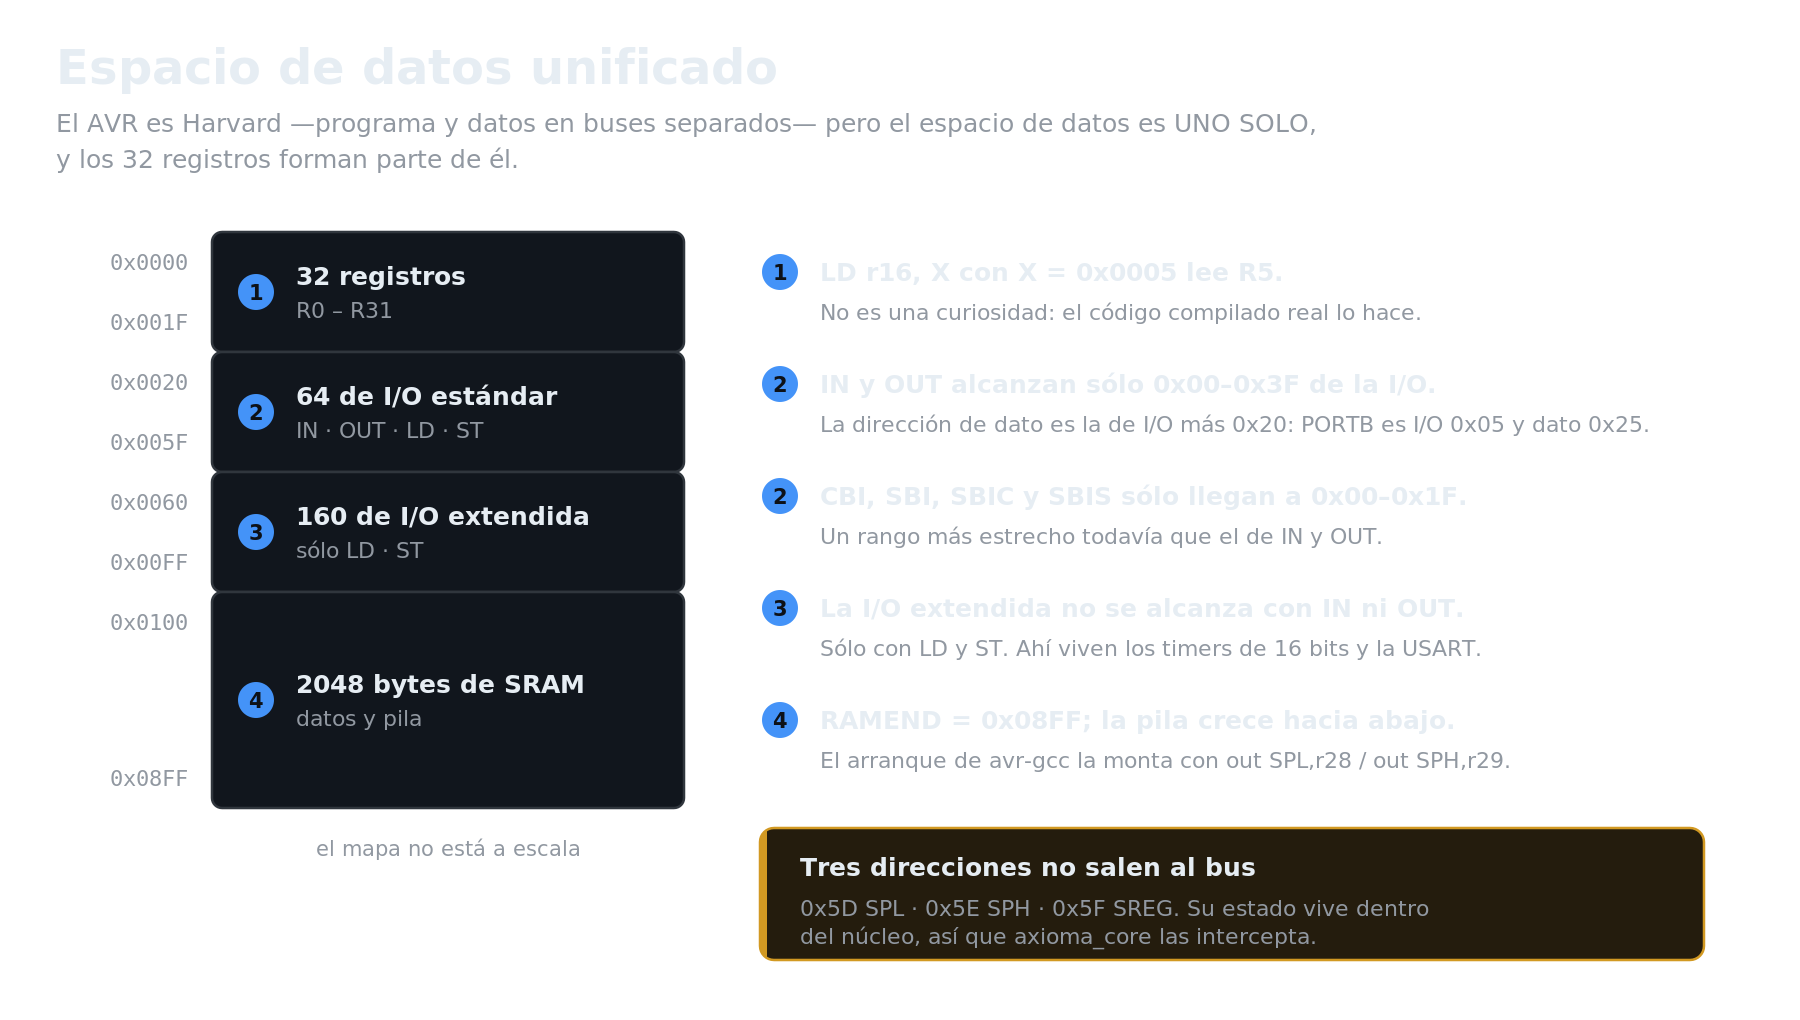
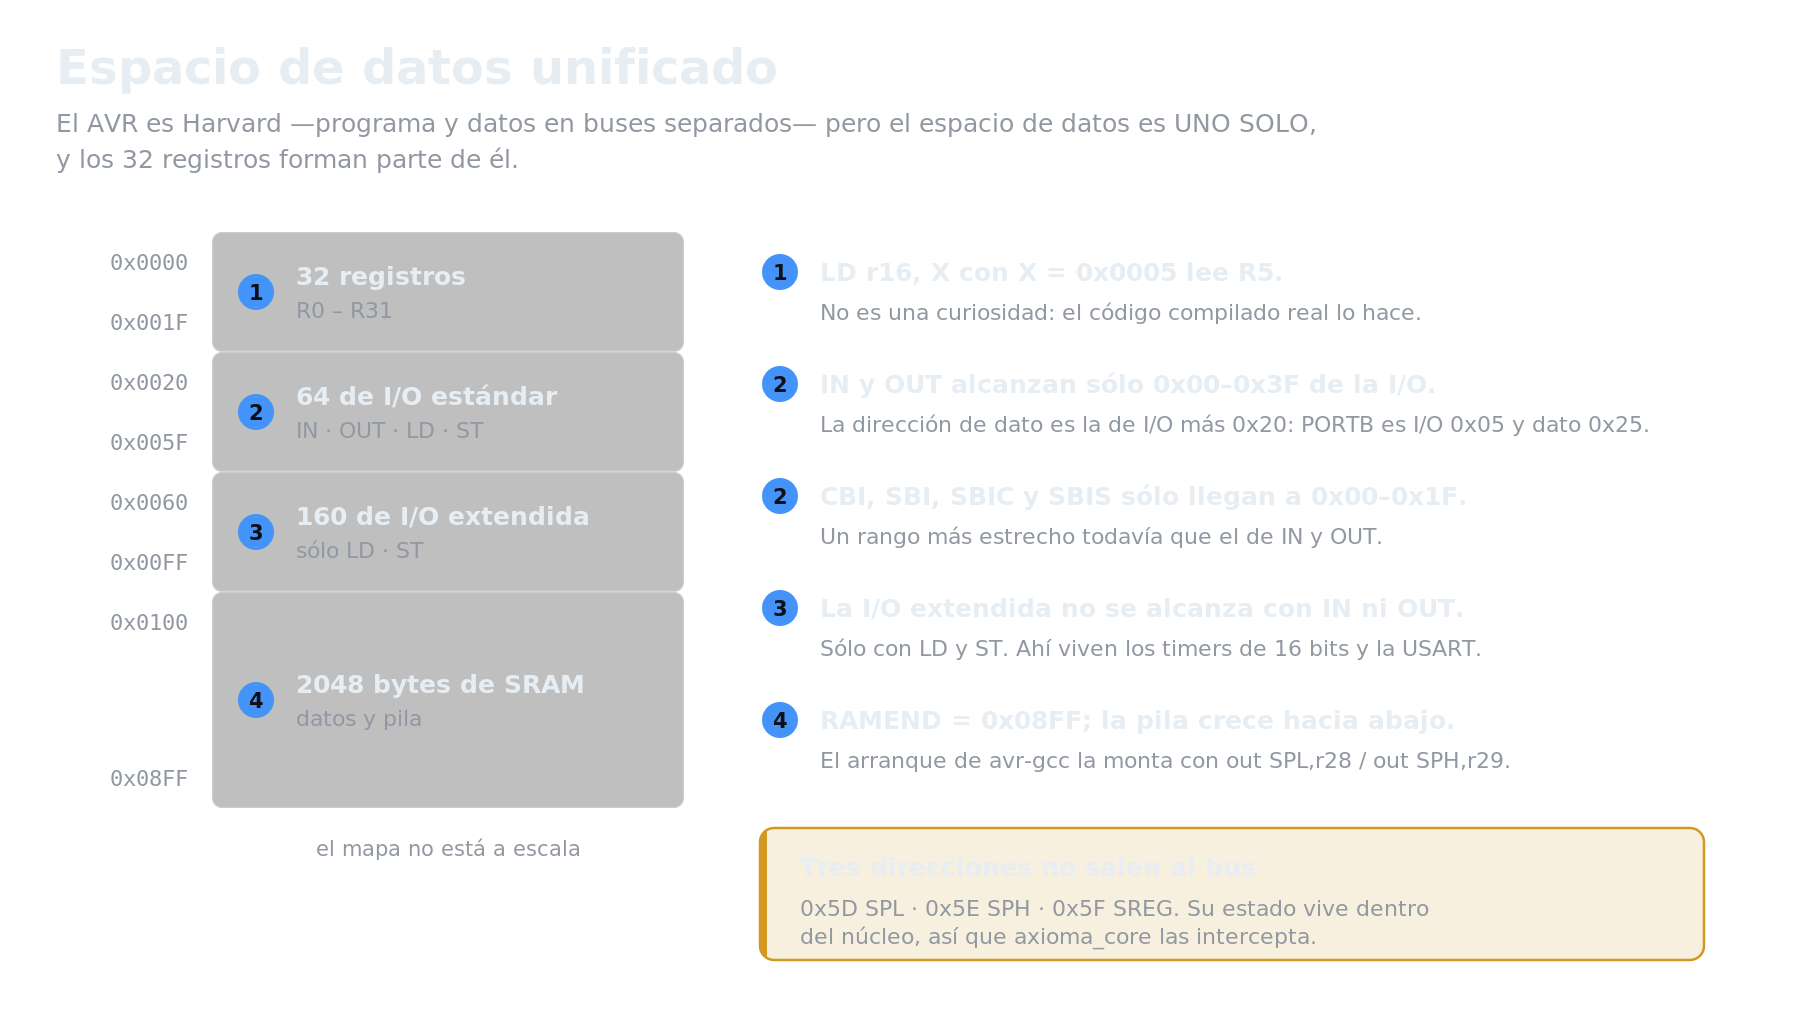
docs: que la transparencia de las figuras sea de toda la figura, no del margen
El commit anterior dejo transparente el lienzo, pero la placa y todas las
tarjetas de dentro seguian siendo rellenos OPACOS. El resultado era a
medias: la figura no llevaba rectangulo por fuera, pero por dentro seguia
tapando la pagina con los colores planos de GitHub, asi que sobre cualquier
fondo que no fuera exactamente ese se veian como parches.

Ahora TODOS los rellenos son lavados translucidos y se componen sobre lo
que haya debajo: la placa oscurece un punto, el panel aclara, el tinte de
estado apenas tine. La jerarquia visual se conserva —placa, panel, bloque—
porque lo que la crea es la diferencia entre capas, no el color absoluto de
cada una. El borde tambien es translucido: uno opaco se veia como una linea
ajena en cuanto la pagina no era del color previsto.

Lo que sigue OPACO es lo que hay que leer: tintas, trazos, flechas y la
barra de estado de cada bloque.

En la paleta ya no hay un color `bg`. Era dos cosas distintas con el mismo
nombre, y por eso el arreglo anterior salio a medias:

  panel      el lavado de los bloques que deben parecer recortados sobre la
             placa. Translucido.
  chip_ink   la tinta del texto que va ENCIMA de una etiqueta de color —la
             pildora ORACULO, los circulos numerados—. Opaca, porque tiene
             que contrastar con un relleno saturado, no con la pagina.

Los alfas se multiplican al apilarse —tinte sobre panel sobre placa sobre
pagina— y estan elegidos para que la suma de aproximadamente los colores
[…]

Changed region(s): [[0.0933, 0.2127, 0.4044, 0.8206], [0.4044, 0.7902, 0.9644, 0.9422]]

diff --git a/tools/diagram_kit.py b/tools/diagram_kit.py
@@ -24,18 +24,38 @@ MONO = "DejaVu Sans Mono"
 # oscuro, para que los diagramas no se vean como un parche encendido.
 # --------------------------------------------------------------------------
 LIGHT = dict(
-    bg="#ffffff", plate="#f6f8fa", block="#ffffff", ink="#1f2328",
-    muted="#59636e", line="#d1d9e0", strong="#8c959f",
+    # RELLENOS TRANSLÚCIDOS, no colores planos. Cada capa es un LAVADO sobre lo
+    # que haya debajo —la página—, no un rectángulo que la tape: la placa
+    # oscurece un punto, el panel aclara, y el tinte de estado apenas tiñe. Así
+    # la figura conserva su jerarquía visual sobre cualquier color de página, y
+    # no sólo sobre el blanco exacto que suponía la paleta.
+    #
+    # El orden importa y los alfas se multiplican: tinte de estado sobre panel
+    # sobre placa sobre página. Los valores están elegidos para que la suma dé
+    # aproximadamente los colores planos de GitHub en tema claro, que es donde
+    # se ve el README la mayoría de las veces.
+    plate="#1f23280a", panel="#ffffffb3", block="#ffffffb3",
+    ok_bg="#1a7f371a", partial_bg="#9a67001a", todo_bg="#1f232811",
+    # El borde también es translúcido: uno opaco se vería como una línea ajena
+    # en cuanto la página no fuera del color previsto.
+    line="#1f23282e",
+    # Tintas y trazos: OPACOS. Son lo que hay que leer.
+    ink="#1f2328", muted="#59636e", strong="#8c959f",
     ok="#1a7f37", partial="#9a6700", todo="#818b98",
-    ok_bg="#eaf6ec", partial_bg="#fdf5e3", todo_bg="#f2f4f7",
-    accent="#0969da", shadow="#00000010",
+    accent="#0969da",
+    # Color del texto que va ENCIMA de una etiqueta de color —la píldora
+    # «ORÁCULO», los círculos numerados—. No es el fondo del lienzo: es la tinta
+    # que contrasta con un relleno saturado, y por eso es opaca.
+    chip_ink="#ffffff",
 )
 DARK = dict(
-    bg="#0d1117", plate="#161b22", block="#11161d", ink="#e6edf3",
-    muted="#9198a1", line="#30363d", strong="#6e7681",
+    plate="#ffffff0d", panel="#00000040", block="#00000040",
+    ok_bg="#3fb95024", partial_bg="#d2992224", todo_bg="#ffffff0f",
+    line="#ffffff30",
+    ink="#e6edf3", muted="#9198a1", strong="#6e7681",
     ok="#3fb950", partial="#d29922", todo="#6e7681",
-    ok_bg="#12251a", partial_bg="#241c0d", todo_bg="#1b2129",
-    accent="#4493f8", shadow="#00000000",
+    accent="#4493f8",
+    chip_ink="#0d1117",
 )
 
 
@@ -60,11 +80,13 @@ class Canvas:
     # elementos del diseño —el contraste entre la placa gris y los bloques
     # blancos es lo que agrupa visualmente el diagrama—, no relleno de fondo.
     #
-    # `theme["bg"]` se conserva porque se usa para OTRAS cosas: el relleno de
-    # los bloques que tienen que parecer recortados sobre la placa, y el color
-    # del texto sobre una etiqueta de color. No es el fondo del lienzo.
+    # NO HAY color de fondo en la paleta, y es a propósito: el fondo es la
+    # página. Lo que antes lo hacía —`bg`— se ha partido en dos cosas que no
+    # eran la misma: `panel`, un lavado translúcido para los bloques que deben
+    # parecer recortados sobre la placa, y `chip_ink`, la tinta opaca del texto
+    # que va encima de una etiqueta de color.
     #
-    # Quien quiera el rectángulo opaco de vuelta, que pase `fondo=t["bg"]`.
+    # Quien quiera el rectángulo opaco de vuelta, que pase un color en `fondo`.
     def __init__(self, w, h, theme, fondo=None):
         self.w, self.h, self.t = w, h, theme
         self.surface = cairo.ImageSurface(cairo.FORMAT_ARGB32,

diff --git a/tools/gen_diagrams.py b/tools/gen_diagrams.py
@@ -115,7 +115,7 @@ def fig_soc(t):
 
     # ---- núcleo ----
     CY, CH = 122, 170
-    c.box(IN_L, CY, IN_W, CH, t["bg"], t["line"], r=8)
+    c.box(IN_L, CY, IN_W, CH, t["panel"], t["line"], r=8)
     c.text(IN_L + 14, CY + 21, "axioma_core", 11.5, colour=t["muted"], mono=True)
 
     ix, iw = IN_L + 16, IN_W - 32                    # 64 .. 836
@@ -160,7 +160,7 @@ def fig_soc(t):
 
     # ---- lo que cuelga del bus ----
     GY, GH = 510, 276
-    c.box(IN_L, GY, IN_W, GH, t["bg"], t["line"], r=8)
+    c.box(IN_L, GY, IN_W, GH, t["panel"], t["line"], r=8)
     c.text(IN_L + 14, GY + 21, "en el espacio de datos", 11.5, colour=t["muted"],
            mono=True)
     c.path([(450, BY + BH + 4), (450, GY - 5)], colour=t["strong"])
@@ -182,7 +182,7 @@ def fig_soc(t):
 
     # ---- pines ----
     py, ph = 802, 36
-    c.box(IN_L, py, IN_W, ph, t["bg"], t["line"], r=7, dash=[5, 3])
+    c.box(IN_L, py, IN_W, ph, t["panel"], t["line"], r=7, dash=[5, 3])
     c.text(IN_L + 20, py + ph / 2, "pines", 11, colour=t["muted"], mono=True,
            align="leftm")
     c.text(IN_L + IN_W / 2 + 26, py + ph / 2,
@@ -203,7 +203,7 @@ def pill(c, x, y, txt, colour=None, size=9):
     col = colour or c.t["accent"]
     w = c.measure(txt, size, bold=True) + 14
     c.box(x, y - 8, w, 16, col, None, r=8)
-    c.text(x + w / 2, y, txt, size, colour=c.t["bg"], bold=True, align="centerm")
+    c.text(x + w / 2, y, txt, size, colour=c.t["chip_ink"], bold=True, align="centerm")
     return w
 
 
@@ -285,7 +285,7 @@ def badge(c, cx, cy, txt, r=9):
     c.set(c.t["accent"])
     c.cr.arc(cx, cy, r, 0, 6.2832)
     c.cr.fill()
-    c.ctext(cx, cy, txt, 10.5, colour=c.t["bg"], bold=True)
+    c.ctext(cx, cy, txt, 10.5, colour=c.t["chip_ink"], bold=True)
 
 
 def fig_dataspace(t):
